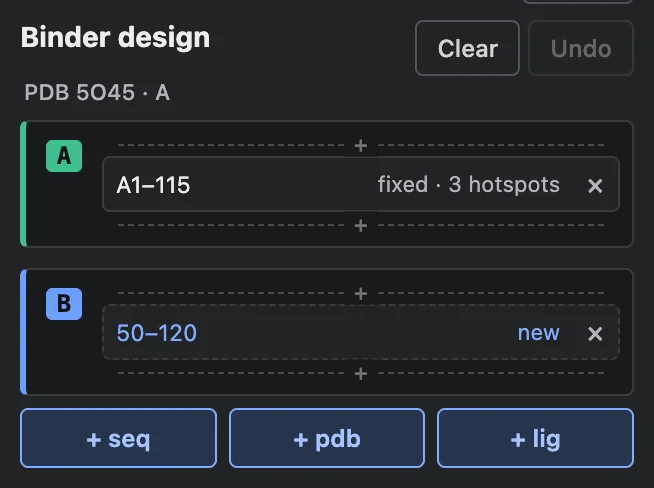
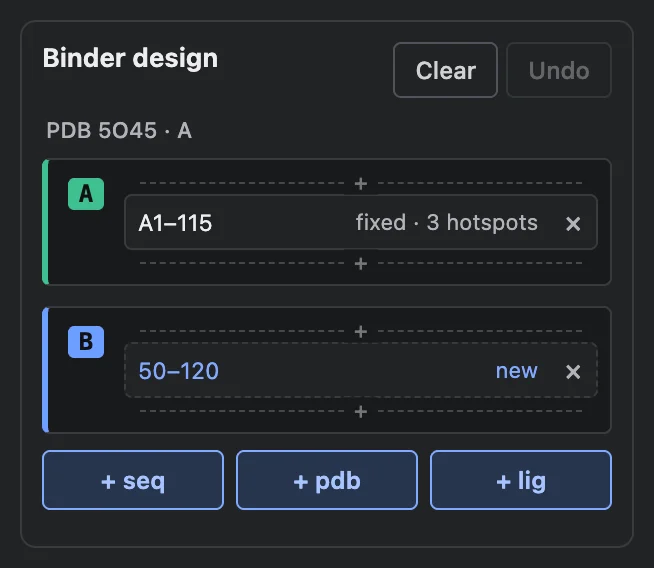
Card in three sections (design, Run, Designs); one list of designs: same input appends, an edited input starts over

diff --git a/web/app.js b/web/app.js
@@ -1054,7 +1054,7 @@ class Rfd4pStudioApp {
     const views = [...this.generatedViews.entries()];
     const input = views.find(([, v]) => v.isInput)?.[1];
     const store = getSharedStudioStore();
-    const designs = views.filter(([, v]) => !v.isInput && !v.isRefold && !v.isSnapshot && v.cif)
+    const designs = views.filter(([, v]) => !v.isInput && !v.isRefold && v.cif)
       .map(([sid, v]) => ({
         index: v.designIndex ?? 1, label: v.label, seed: v.seed, stepsRun: v.stepsRun, nsteps: v.nsteps,
         cif: v.cif, pdb: v.pdb, trajectoryCif: store.getSession(sid)?.trajectoryCif ?? null,
@@ -1139,7 +1139,7 @@ class Rfd4pStudioApp {
       }))),
       h('th', { class: 'rfd4p-dt-act' })));
     const row = (sid, v, inputTitle = null) => {
-      const isInputRow = v.isInput || v.isSnapshot;
+      const isInputRow = v.isInput;
       const cls = [isInputRow ? 'rfd4p-design-input' : '', v.pass === true ? 'rfd4p-design-pass' : '',
         v.pass === false ? 'rfd4p-design-fail' : ''].filter(Boolean).join(' ');
       const tr = h('tr', { class: cls || null, title: isInputRow ? inputTitle : `seed ${v.seed}` });
@@ -1168,30 +1168,12 @@ class Rfd4pStudioApp {
       tr.addEventListener('click', (ev) => { if (!ev.target.closest('button, label, input')) radio.click(); });
       return tr;
     };
-    const table = (rows, withHead = true) => h('table', { class: 'rfd4p-dtable' }, withHead ? thead() : null, h('tbody', {}, ...rows));
-    // Each run's own input first in its table: the input itself while it is unchanged since the newest run, else the
-    // run's read-only copy. The input as it is now heads the list only once it has changed since that run.
+    const table = (rows) => h('table', { class: 'rfd4p-dtable' }, thead(), h('tbody', {}, ...rows));
+    // One table: the input, then the designs.
     const input = views.get(this.inputSessionId);
-    const revisionNow = getSharedStudioStore().getSession(this.inputSessionId)?.revision ?? null;
-    const parts = [];
-    const newest = runs.at(-1);
-    const unchanged = (r) => r === newest && r.inputRevision === revisionNow;
-    if (input?.isInput && (!newest || !unchanged(newest))) parts.push(table([row(this.inputSessionId, input, 'The input as it is now (editable)')], false));
-    for (const [k, r] of runs.entries()) {
-      const own = unchanged(r) && input?.isInput ? [this.inputSessionId, input, 'The input these designs were made from (editable)']
-        : r.inputSnapshot && views.get(r.inputSnapshot) ? [r.inputSnapshot, views.get(r.inputSnapshot), `The input run ${r.index} was made from (read-only)`] : null;
-      const rows = [own ? row(...own) : null, ...order(r.designs).map(([sid, v]) => row(sid, v))].filter(Boolean);
-      if (runs.length === 1) { parts.push(table(rows)); continue; }
-      const group = h('details', { class: 'rfd4p-run' },
-        h('summary', { text: `Run ${r.index} · ${r.designs.length} design${r.designs.length === 1 ? '' : 's'}` }), table(rows));
-      // Open or closed as the reader left it, across redraws (a refold redraws the table); until then, the newest run
-      // and the one holding what is shown are open.
-      this.runOpen ??= new Map();
-      group.open = this.runOpen.has(r.index) ? this.runOpen.get(r.index)
-        : k === runs.length - 1 || r.designs.includes(this.studioSessionId) || r.inputSnapshot === this.studioSessionId;
-      group.addEventListener('toggle', () => this.runOpen.set(r.index, group.open));
-      parts.push(group);
-    }
+    const rows = [input?.isInput ? row(this.inputSessionId, input, 'The input the designs were made from') : null,
+      ...order(runs[0]?.designs ?? []).map(([sid, v]) => row(sid, v))].filter(Boolean);
+    const parts = [table(rows)];
     box.replaceChildren(...(designs.length ? parts : []));
     box.classList.toggle('rfd4p-designs-busy', Boolean(this.activeAbortController));
     if (this.els.downloadsBox) this.els.downloadsBox.hidden = designs.length < 1;
@@ -1516,28 +1498,17 @@ class Rfd4pStudioApp {
           revision: inputRevision,
         });
       }
-      // Earlier runs on the same input stay, folded away under the new one; a different input starts over.
-      if (this.runsInput !== this.inputSessionId || !this.runs) {
+      // One list of designs: generated again from the input unchanged, the new designs join it, numbered on; from an
+      // edited or another input, it starts over.
+      const last = this.runs?.[0];
+      if (this.runsInput !== this.inputSessionId || !last || last.inputRevision !== inputRevision) {
         for (const sid of this.generatedViews.keys()) if (sid !== this.inputSessionId) this.generatedViews.delete(sid);
-        this.runs = [];
+        this.runs = [{ designs: [], inputRevision }];
         this.designCounter = 0;
         this.designSort = null;
-        this.runOpen = new Map();
         this.runsInput = this.inputSessionId;
       }
-      const run = { index: (this.runs.at(-1)?.index ?? 0) + 1, seeds: [baseSeed, baseSeed + numSamples - 1], designs: [], inputRevision };
-      // The input as this run had it, kept read-only beside its designs: edits after it do not change what it was.
-      const inputNow = store.getSession(this.inputSessionId);
-      if (inputNow) {
-        const cif = inputNow.toCif();
-        const { sessionId: snapshotSid } = store.createSession(cif, `input-run-${run.index}.cif`);
-        this.generatedViews.set(snapshotSid, {
-          label: 'Input', cif, pdb: null, isInput: false, isSnapshot: true, hasTrajectory: false,
-          filenameStem: `input-run-${run.index}`, runIndex: run.index,
-        });
-        run.inputSnapshot = snapshotSid;
-      }
-      this.runs.push(run);
+      const run = this.runs[0];
       this._renderDesigns();
 
       const t0 = performance.now();
@@ -1724,7 +1695,6 @@ class Rfd4pStudioApp {
           refoldText: null,
           // For "Save results": which design, how it ran, and every refold made of it.
           designIndex,
-          runIndex: run.index,
           // Which of upstream's pass criteria apply: the task, and whether everything the refold folds was designed.
           kind: criteriaKind(taskKey, {
             designedAll: polymerChains(result.pdb ?? '').every((c) => designed.includes(c.letter)),

diff --git a/index.html b/index.html
@@ -10,7 +10,7 @@
     <!-- This site serves the Studio bundle itself; its offline cache would pin stale assets on Pages. -->
     <meta name="atomworks-studio-service-worker" content="off" />
     <script src="https://cdnjs.cloudflare.com/ajax/libs/jszip/3.10.1/jszip.min.js"></script>
-    <link rel="stylesheet" href="./web/styles.css?v=ca3a25ec3c" />
+    <link rel="stylesheet" href="./web/styles.css?v=e1e6c294ac" />
     <!-- app.js first: its import of studio-api.js installs the /api/* fetch interceptor the Studio bundle boots against. -->
     <!-- module-versions:start (tools/stamp-modules.mjs) -->
     <script type="importmap">
@@ -38,8 +38,8 @@
           "./shared/rfd4p/presets.js": "./shared/rfd4p/presets.js?v=8db26644f7",
           "./shared/rfd4p/safetensors.js": "./shared/rfd4p/safetensors.js?v=816ee6d627",
           "./shared/rfd4p/vendor/fzstd.js": "./shared/rfd4p/vendor/fzstd.js?v=e6cdba40d4",
-          "./web/app.js": "./web/app.js?v=ce6cdfa09d",
-          "./web/design-panel.js": "./web/design-panel.js?v=7ddf61c957",
+          "./web/app.js": "./web/app.js?v=5ce7a21845",
+          "./web/design-panel.js": "./web/design-panel.js?v=fc42f3e448",
           "./web/design-spec.js": "./web/design-spec.js?v=5b8999f1bb",
           "./web/guide-dialog.js": "./web/guide-dialog.js?v=df4c3ca412",
           "./web/ligand-ccd.js": "./web/ligand-ccd.js?v=b937ddbebf",
@@ -59,7 +59,7 @@
       }
     </script>
     <!-- module-versions:end -->
-    <script type="module" src="./web/app.js?v=ce6cdfa09d"></script>
+    <script type="module" src="./web/app.js?v=5ce7a21845"></script>
     <script type="module" crossorigin src="./assets/index-H6K66f49.js"></script>
     <link rel="stylesheet" crossorigin href="./assets/index-CTn3vkIg.css">
   </head>
@@ -98,7 +98,7 @@
             </div>
 
             <!-- Design: what will be generated, read from the open document. -->
-            <div id="rfd4p-design" class="rfd4p-design" hidden>
+            <div id="rfd4p-design" class="rfd4p-design rfd4p-section" hidden>
                 <div class="rfd4p-task-head">
                     <strong id="rfd4p-task-label"></strong>
                     <span class="rfd4p-task-buttons">
@@ -116,7 +116,8 @@
                 <div id="rfd4p-warnings" class="rfd4p-warnings"></div>
             </div>
 
-            <div id="rfd4p-run-settings" class="rfd4p-run-settings" hidden>
+            <div id="rfd4p-run-settings" class="rfd4p-run-settings rfd4p-section" hidden>
+            <strong class="rfd4p-section-title">Run</strong>
             <div class="rfd4p-settings-row">
                 <label for="samples-input" class="rfd4p-designs-field">Designs
                     <input type="number" id="samples-input" value="1" min="1" max="8" step="1" />
@@ -168,8 +169,6 @@
             <button id="predict" class="primary rfd4p-generate-btn" type="button" disabled>
                 Generate design
             </button>
-            </div>
-
             <div id="generation-status" class="rfd4p-status-box" hidden>
                 <p id="rfd4p-status-message" class="inline-feedback muted" aria-live="polite"></p>
                 <div id="rfd4p-model-load" class="rfd4p-model-load" hidden>
@@ -177,10 +176,12 @@
                 </div>
                 <progress id="rfd4p-progress" class="rfd4p-progress" max="1" value="0" data-state="idle" hidden></progress>
             </div>
+            </div>
+
 
             <!-- Every design of the runs on this input, one row each with its refold's numbers (web/app.js _renderDesigns). -->
-            <div id="design-results" class="rfd4p-results-box" hidden>
-                <strong class="rfd4p-results-title">Designs</strong>
+            <div id="design-results" class="rfd4p-results-box rfd4p-section" hidden>
+                <strong class="rfd4p-section-title">Designs</strong>
                 <div id="design-view-radios" class="rfd4p-designs" role="radiogroup" aria-label="Designs"></div>
                 <!-- Refold: fold each design's sequence again and score how it comes back (web/app.js _refoldDesigns). -->
                 <div id="rfd4p-refold" class="rfd4p-refold-box" hidden>

diff --git a/web/styles.css b/web/styles.css
@@ -164,13 +164,7 @@ body.studio-fullscreen-body {
   font-weight: 600;
 }
 
-.rfd4p-results-box {
-  margin-top: 8px;
-  padding-top: 8px;
-  border-top: 1px solid var(--border, #383a3f);
-  display: grid;
-  gap: 6px;
-}
+.rfd4p-results-box { display: grid; gap: 8px; }
 
 .rfd4p-view-group {
   margin: 0;
@@ -498,9 +492,7 @@ body:not(.rfd4p-advanced) #atomworks-studio-popover > :not(#rfd4p-studio-card) {
 }
 
 /* Design panel */
-.rfd4p-design {
-  margin-bottom: 10px;
-}
+.rfd4p-design { margin-bottom: 0; }
 
 .rfd4p-design.rfd4p-busy {
   opacity: 0.6;
@@ -562,12 +554,18 @@ body:not(.rfd4p-advanced) #atomworks-studio-popover > :not(#rfd4p-studio-card) {
 }
 
 /* Run settings: designs, seed and its dice on one line */
-/* The run (designs, seed, partial diffusion, Generate) set apart from what is being designed. */
-.rfd4p-run-settings {
-  margin-top: 18px;
-  padding-top: 14px;
-  border-top: 2px solid var(--border, #383a3f);
+/* The card in three sections, each a bordered box under its heading: the design (headed by its task), Run
+   (designs, seed, settings, Generate and what it says), and Designs (the results, their refold, Save all). */
+#rfd4p-studio-card .rfd4p-section {
+  display: grid; gap: 8px; margin: 10px 0 0; padding: 10px;
+  border: 1px solid var(--border, #383a3f); border-radius: 8px;
 }
+#rfd4p-studio-card .rfd4p-section[hidden] { display: none; }
+.rfd4p-section-title, .rfd4p-task-head strong { font-size: 13px; font-weight: 650; }
+.rfd4p-section > .rfd4p-settings-row,
+.rfd4p-section > .rfd4p-sampling-details,
+.rfd4p-section > .rfd4p-chain-actions,
+.rfd4p-section > .rfd4p-status-box { margin: 0; }
 
 .rfd4p-settings-row {
   display: flex;
@@ -1019,8 +1017,8 @@ body.rfd4p-building .rfd4p-piece-pop { visibility: hidden; }
 
 /* The Designs table (web/app.js _renderDesigns): one row a design, its refold's numbers, sortable by column. */
 /* "Designs", its tables, then the Refold box: everything refolding takes, in one bordered square. */
-.rfd4p-results-title { font-size: 12.5px; }
-.rfd4p-refold-box { display: grid; gap: 6px; padding: 8px; border: 1px solid var(--border, #383a3f); border-radius: 6px; }
+/* Inside Designs, the Refold box is tinted rather than bordered: part of that section, not a section of its own. */
+.rfd4p-refold-box { display: grid; gap: 6px; padding: 8px; border-radius: 6px; background: var(--surface-recessed, #191a1c); }
 .rfd4p-refold-box > strong { font-size: 12px; }
 .rfd4p-refold-grid { display: grid; grid-template-columns: minmax(0, 2fr) repeat(3, minmax(0, 1fr)); gap: 6px; }
 .rfd4p-refold-grid label { display: grid; gap: 2px; margin: 0; font-size: 10.5px; color: var(--text-muted, #b1b3b9); }

diff --git a/web/page/card.html b/web/page/card.html
@@ -32,7 +32,7 @@
             </div>
 
             <!-- Design: what will be generated, read from the open document. -->
-            <div id="rfd4p-design" class="rfd4p-design" hidden>
+            <div id="rfd4p-design" class="rfd4p-design rfd4p-section" hidden>
                 <div class="rfd4p-task-head">
                     <strong id="rfd4p-task-label"></strong>
                     <span class="rfd4p-task-buttons">
@@ -50,7 +50,8 @@
                 <div id="rfd4p-warnings" class="rfd4p-warnings"></div>
             </div>
 
-            <div id="rfd4p-run-settings" class="rfd4p-run-settings" hidden>
+            <div id="rfd4p-run-settings" class="rfd4p-run-settings rfd4p-section" hidden>
+            <strong class="rfd4p-section-title">Run</strong>
             <div class="rfd4p-settings-row">
                 <label for="samples-input" class="rfd4p-designs-field">Designs
                     <input type="number" id="samples-input" value="1" min="1" max="8" step="1" />
@@ -102,8 +103,6 @@
             <button id="predict" class="primary rfd4p-generate-btn" type="button" disabled>
                 Generate design
             </button>
-            </div>
-
             <div id="generation-status" class="rfd4p-status-box" hidden>
                 <p id="rfd4p-status-message" class="inline-feedback muted" aria-live="polite"></p>
                 <div id="rfd4p-model-load" class="rfd4p-model-load" hidden>
@@ -111,10 +110,12 @@
                 </div>
                 <progress id="rfd4p-progress" class="rfd4p-progress" max="1" value="0" data-state="idle" hidden></progress>
             </div>
+            </div>
+
 
             <!-- Every design of the runs on this input, one row each with its refold's numbers (web/app.js _renderDesigns). -->
-            <div id="design-results" class="rfd4p-results-box" hidden>
-                <strong class="rfd4p-results-title">Designs</strong>
+            <div id="design-results" class="rfd4p-results-box rfd4p-section" hidden>
+                <strong class="rfd4p-section-title">Designs</strong>
                 <div id="design-view-radios" class="rfd4p-designs" role="radiogroup" aria-label="Designs"></div>
                 <!-- Refold: fold each design's sequence again and score how it comes back (web/app.js _refoldDesigns). -->
                 <div id="rfd4p-refold" class="rfd4p-refold-box" hidden>

diff --git a/web/design-panel.js b/web/design-panel.js
@@ -649,10 +649,7 @@ export class DesignPanel {
     const viewingDesign = this._viewingDesign();
     els.design.classList.toggle('rfd4p-readonly', viewingDesign);
     els.taskLabel.textContent = spec.task.label;
-    const snapshot = viewingDesign && this.app.generatedViews?.get(this.app.studioSessionId)?.isSnapshot;
-    els.taskDetail.textContent = !viewingDesign ? '' : snapshot
-      ? 'The input of an earlier run (read-only). Select the editable Input under Designs to edit.'
-      : 'A generated design (read-only). Select Input under Designs to edit.';
+    els.taskDetail.textContent = viewingDesign ? 'A generated design (read-only). Select Input under Designs to edit.' : '';
     els.taskDetail.hidden = !viewingDesign;
     if (els.newDoc) els.newDoc.hidden = viewingDesign;
     const actions = els.addSeq?.parentElement;

diff --git a/help/index.html b/help/index.html
@@ -169,8 +169,9 @@
     back exactly as given.</p>
 
   <h2 id="designs">Designs</h2>
-  <p>Every design of every run on this input is a row. Click a row to see it. Earlier runs fold away under
-    <code>Run 1 · seeds …</code>; a different input starts the list over.</p>
+  <p>Every design is a row; click one to see it, or Input to go back to editing. Generate again with the input unchanged
+    and the new designs join the list; change the input and the next Generate starts a new list (save what you want to
+    keep first).</p>
   <ul>
     <li><span class="ui">Refold all</span> folds each design's sequence again with AlphaFold 3 or OpenBind-0 and scores how well it comes
       back. <span class="ui">↻</span> refolds one design; <span class="ui">⤓</span> downloads it. The

diff --git a/AGENTS.md b/AGENTS.md
@@ -24,7 +24,7 @@ Operational guide for coding agents working in `rfd4p` (WebGPU implementation of
    - `web/design-spec.js` (pure: task, chain roles, lengths and contig read from a document's conditions; tested in `test/design-spec.test.js`) and `web/design-panel.js` (start screen, Design panel, guided set-ups, simple/advanced switch). The panel lists each chain piece by piece in contig order (`designSpec(...).chains[].pieces`): `kept` (with a keep mode from `KEEP_MODES`: all, sequence, backbone, side chains, shape only; `anywhere` when unindexed; `source` when a set-up renumbered it), `designed` (in place) and `new` (a length range). Chains are grouped by where their coordinates come from (`_sourceGroups`: "PDB 1QJG", "PDB 5O45 chain A", "Nanobody (VHH) example"), one muted caption per source; clicking a caption opens the + pdb form to replace that source's chains; chains are listed in the job's order (the sequence bar's, which is the order they were added), chains made here (+ seq, + lig) uncaptioned in place. Each piece is a sub-card in its chain (chain letter on the left; the chain's × there once it has more than one item), residues (or a new piece's length) on the left and its state on the right ("A17–131 · fixed · 3 hotspots", "H99–109 · designed", "50–120 · new"), its own × to remove it; a "+" between sub-cards (not next to new residues) inserts 5–10 new residues there. Every option in the popups is fixed or free (free: the model decides; the internal values stay 'designed' and 'anywhere'), and every list ends with "free", Shape, Exposure, Interaction and Fold included; a ligand's pose is its Structure too. A residue popup (a sub-card's, or residues picked in the viewer or the sequence bar) shows, in front, its residue range (a sub-card's), Structure (fixed, rigid, free) with the Atoms it holds (all, backbone, side chains, or named: "CG, OD1"), Sequence (fixed, free) and Position in chain (fixed, free: an unindexed residue), with Structure and Sequence both free Length in Position's place, and a sub-card's Hotspots, the rest under More (`_moreFold`: Shape, Exposure, Interaction, and a sub-card's Keep only); there are no one-click buttons (they set four things at once and could not say "structure fixed, sequence free"). A sub-card's click also selects its residues in Studio while its popup is open (`_selectFromCard`, not the viewer's popup). A sub-card's Residues take one range or several ("1–40, 60–115"); once narrowed, Rest says what happens to the piece's residues outside them (removed, the default; free; unchanged, for changing part of a piece), the gaps between ranges are free, and Between gives them a length range, turning each into new residues (so a fetched chain is cut to a domain, or to two regions with a variable linker, in one popup); a Length other than the residue count turns them into new residues (`/segments/replace`), and the document remembers the residues they replaced (`segmentOrigins`, this page only; `segmentOrigin`, `restoreSegment`, `/segments/restore`; `test/segment-restore.test.js`): the new-residues popup then shows "was 7" beside Length and a Structure and Sequence, and the old count, or a fixed or rigid Structure or a fixed Sequence, brings them back in place with their coordinates and conditions, in one Undo; with partial diffusion ticked, its warning about new residues offers the same for all of them ("Back to the residues they replaced"), since partial diffusion starts from coordinates. A piece of a loaded chain has a crop bar under its Residues (`_cropBar`): the chain as it was loaded (`chainSources`, kept by a plain structure's `StudioDoc` and carried by `combine` and a chain rename; `sourceResidues`), the piece's ranges on it, the chain's other residues muted, a handle at each end; dragging in crops (Rest), dragging out brings residues back, up to the neighbouring piece and never past new residues (`restoreFromSource`, `/residues/restore`: as loaded, then given the popup's settings, those in gaps free). It only edits the Residues field, so typing a range past the piece does the same. As the ranges change (dragged or typed), the structure previews them (`_previewCut`): residues to be cut nearly vanish (`setHighlight('cut', …)`), those to be freed fade as free ones do, and only the residues kept stay selected; closing the popup clears it. Opening a sub-card's popup also brings its residues to the middle of the view, the zoom kept (`centerOn`, fork 12c2b78). During a run and on a finished design, the held coordinates of a motif are drawn as a grey reference (`buildMotifOverlayAtoms`, `motifSideChainAtoms`): residues placed anywhere always, residues held in place only when they are a quarter of their chain or less (`isSmallMotif`: 1QJG's three, not a kept domain extended by new residues, which would only be drawn twice). Residues the model rebuilds (no atom held, not rigid) are faded in the input structure (`setHighlight('free', …, { transparency })`, fork f7a02ee), except with partial diffusion ticked, where they are its starting point. Hotspots (the chain's, from any of its pieces; a residue may name its atoms, "A56(CG,OH)", `parseResidueList`) and, under More, Keep only (the motif set-up, `/segments/scaffold`; the residues are kept in the order typed, "A38, A14, A99" reorders the motif and renumbers the chain as AtomWorks does, `_orderMotif`, each kept residue keeping its source ("A38", `annotation_src-component_1_atom`, display only: the pipeline rewrites it) so the card still names it by the entry; the kept residues take the popup's properties, so trimming an antibody chain and making it "rigid" is one popup). "Rigid" is one rigid group per source structure (`/internal-coords` `group_id`, `_rigidGroup(chain)`: chains from the same entry share a body), so an antibody's heavy and light frameworks keep their pairing and move as one, as upstream's current antibody example (Studio 0.0.6, MZB1/adalimumab Fv) and the model repo's VHH inputs are set (the Oct 19 example the demo Space ships had them as two bodies, since replaced), a framework split by CDRs moves as one, and chains from different entries move apart, and its saved targets are cleared (`/internal-coords/clear-targets`): the pipeline centres the body and turns it at random when the job is built (`materializeInternalCoords`), as AtomWorks does and the bundled examples are saved. A residue fixed "anywhere" with only some atoms held keeps only those atoms' coordinates, held atoms first in the residue (`/coordinates/clear`; a token is read from its first atom), as an enzyme benchmark's catalytic tips are given. Residues can be brought back from their source entry next to their neighbours (`/residues/insert`, `insertResiduesFrom`: one Undo, peptide and new-residue bonds rebuilt, an ordered motif's chain renumbered; `test/residue-insert.test.js`); nothing in the card uses it yet (a residue strip did, and was taken out for now). The chain letter opens the chain's popup: its name (`/chains`), its place in the job (`/chains/order`), which the model reads (chain and molecule ids, noise draws), and a fold for it (CATH, `cath_label`, `_foldField`: the chain popup's labels the whole chain, the new-residues popup's only those new residues, so one chain can hold domains of different folds, 6MRR kept and a β-barrel built onto it; a new block shows its fold, "β-barrel · new"; named folds such as ferredoxin-like 3.30.70, Rossmann-like 3.40.50, helix bundle 1.10, or any code; a new chain's is set on its new residues, which each take it; also in the new-residues popup, where a new chain is laid out). Superposition (`superimposeCoords3D`) is a rotation, never a reflection (`test/handedness.test.js`): it used to mirror whenever its eigenvectors came out left-handed, and a design with nothing held in place, aligned onto its first (noise) frame, was then shown as its mirror image, every helix left-handed, about half the time; the model's own estimate was right-handed throughout. A residue placed anywhere is read against all its atoms (`heldAtomsOf`, `allHeavyNames`), since only its held atoms keep coordinates, so its row names them ("A250 CG, OD1 fixed · position free"); a glycine joins a named-atoms or side-chain run it sits in, and an interaction is asked of each residue's side chain, or its CA when it has none. Under More, residues can also be asked a Shape (secondary structure: helix, strand, loop), an Exposure (RASA: buried, intermediate, exposed) and an Interaction their side chains (or the atoms named) should make (H-bond donor/acceptor, salt bridge, π-stacking, π-cation, hydrophobic, metal-coordinating) (`_extraFields`); new residues take Shape and Exposure. These were Advanced-editor only; pieces split where they differ and rows name them ("A20–30 designed · helix"). Residues selected in the viewer or the sequence bar open a shorter popup for the selection (`_renderPop`): Structure and Sequence ("mixed" where the selected pieces differ, left as each piece has it), Length for one free stretch, Hotspot and Include checkboxes (unticked, the selection is taken out of the job on Apply) and a ligand's Structure, with Atoms, Position, Shape, Exposure and Interaction under More (a pick shows little at first), so fixed regions are grown, shrunk, freed or cut from the structure itself (a motif by hand: pick the residues around it, Structure and Sequence free, a Length); several pieces change in one edit (`_applyPieces`), one Undo. Ligands: Structure fixed or free, swap. New residues: Length, Shape, Exposure and the chain's Fold. More folds only four rows or more; fewer are shown as they are (`_moreFold`). Popups close with the × in their title (top right; a viewer pick's also lets go of the selection), Escape or a click outside, and move by their title bar (`_movable`): once moved, every popup opens where the last was left, kept on screen, until a reload (`popSpot`); Apply sits at the bottom, always in sight. A "+" sits between any two pieces and at both ends, new residues included, so a free chain is built as blocks of different lengths and shapes (20 helix · 6 loop · 20 strand). New residues inserted inside a chain do not renumber it: with no numbering gap the placeholder takes the residue before's number plus an insertion code (`insertSegment`, "40A"), and `realizeExpandableSegments` numbers past it, so the batch and the design are numbered exactly as the old renumber-the-rest rule made them (`test/insert-numbering.test.js`). A design therefore numbers residues after an insertion further along than the input; hotspots on designs are matched through each sample's batch atoms for that reason. A binder's target stays as loaded, fixed, as the original demo example has it (turning it into upstream's documented binder set-up, backbone rigid with sequence fixed, on + seq or + pdb was tried and taken back at the owner's call; the popup's rigid + backbone does it by hand). A rigid residue counts as held when roles are read, so a rigid target still reads "Binder design". Thinking sits above Generate and defaults to none, for speed (upstream's default is medium, `inference.yaml`; about 3x the passes). A plain structure (PDB ID, optionally with the chains to keep, "1J79 A C E"; a file; "+ pdb") opens with everything fixed, without buffer ions (NA, CL, on top of AtomWorks' additive list) and with its ligands' formal charges from the CCD (RCSB entries list their components' atoms without charges, `componentsNeedingCcd`); a prepared document drops the file's text (`rawCif`), so its CIF, for the viewer and for a run, is the prepared one from the first frame (`StudioDoc`, rcsb preset; `test/fetch-defaults.test.js`), so a set-up starts from what was loaded and marks what to design; Keep only takes the popup's Structure, Atoms and Position (CG, OD1 + anywhere is an enzyme site), and ticking partial diffusion with nothing designed frees every chain. "Blueprint" draws a ferredoxin-like fold as blocks (β 6 · loop 3 · α 14 · loop 3 · β 6 · loop 3 · β 6 · loop 3 · α 14 · loop 3 · β 6) from the bundled empty chain (`start`, `blocks` steps; no download); a design follows it (helix blocks Cα i→i+3 5.1 Å and right-handed, strands 10 Å). The start screen starts a job from its parts with the design view's own row, + seq (a free chain of 60–100, from the bundled empty chain), + pdb (the PDB ID / file form) and + lig (a ligand by its code), each opening a new document (`_startNew`), and under it the Examples (a heading, not a question: nothing there has to be picked). Start-screen examples are recipes (`TASKS[].recipe`): each fetches its PDB entry (5O45, 1XVA, 1QJG, 1J79, 1N8Z, 4Z18 + 3EAK, 2KL8, in label numbering; an entry's chains come from its first biological assembly that has them, `_openEntry`) and reproduces the bundled Studio example of the same name in everything the model reads (batch features compared tensor by tensor; the motif is identical, the antibody too but for two deliberate changes, its heavy and light chains one rigid body and their fold Ig-like (CATH 2.60.40, recipe `{ chain, fold }`), as upstream's examples now are; both 2KL8 examples keep residues 1–79 (all of it but the His tag), where the bundled file drops 8–27, a bug in it; the rest differ only where the bundled file's coordinates did not come from the deposited entry: the binder's rebuilt side chains, the SAM conformer, the nanobody framework's saved orientation, and 0.001 Å rounding in the enzyme) and builds the set-up with the card's own controls in a session Studio does not show (`_buildRecipe`: `buildSession`, whose edits go straight to `handleStudioApiRequest`, so the viewer is not redrawn per step; popups hidden by `body.rfd4p-building`), then opens it once, finished, with no Undo history; offline, the bundled Studio example opens instead ("Protein from scratch" always does). Source captions read "PDB 5O45 · A" (entry and its chains in the job; the entry's `_struct.title` when pointed at). Designs and live frames are put back in the input's frame (the pipeline centres the conditioned coordinates for the model and records `center_shift`; `processSampleToAtoms` adds it back after aligning), so a fetched target does not jump when a run starts. During a run the hotspot highlight follows the job's numbering (`app.liveHotspotKeys`, res_id past any new residues), since live frames are numbered that way, and the viewer repaints it on every live frame (fork: Mol* keeps paint as atom positions, and a frame's designed residues change atom count from step to step, so paint carried over slid onto other residues; the viewer's `data-highlight-residues` says what is painted). Otherwise hotspots are highlighted in the viewer by `auth_seq_id`, which is how the document's CIF numbers residues for Mol* (a fetched entry keeps its authors' numbering there; `res_id` is the label numbering). There are no separate guided set-ups; partial diffusion is a line under the run settings' More settings, which open whenever it is turned on, so it is never on out of sight (one control: the checkbox and its noise %, 40% by default, `partial_trajectory_fraction_steps` 0.4 as upstream's Space runs its partial-diffusion example). A job whose every chain keeps its backbone with its sequence free (the card's "Redesign sequence", `task.key === 'inverse'`) runs the inverse-folding sampler (`resampled_forward_marginal`), as the Space does for that task (`generation=inverse_folding`): the backbone comes back as given (Cα within 0.02 Å), only sequence and side chains sampled. The encoder treats an atom without coordinates (a side chain an entry did not resolve) as absent (`encoderSeqFeatures`), or its NaN reached every latent and partial diffusion of such an entry (6MRR) gave a design with no atoms. Hotspots are a chip on a kept piece (`parseResidueList` / `formatResidueList`). Ligands are added ("+ lig") or swapped (a ligand's Edit menu) by their CCD code: `web/ligand-ccd.js` turns the dictionary entry's ideal coordinates into a one-residue mmCIF, merged in with its pose free. "+ seq", "+ pdb" and "+ lig" add a designed chain, chains from a PDB entry or file, or a ligand; merged in as kept chains through `/combine` (a source caption replaces that source instead), so an example is edited the same way a set-up is built from scratch. The panel edits documents only through `window.__rfd4pMutate`, so Undo and Studio refreshes work as for Studio's own edits.
    - AtomWorks Studio is **not vendored**. `studio.json` pins the release; `npm run build:studio` downloads that bundle, verifies its sha256, copies it into `assets/` and composes `index.html` from Studio's own page plus the two fragments this repo owns (`web/page/head.html`, `web/page/card.html`). Never hand-edit `assets/` or `index.html` — both are build output. Live frames, overlays, sessions, edits, the selection, chain colours and live mode go through Studio's documented embedding API, `window.atomworksStudio`. To try an unreleased Studio: `npm run build:studio -- --from <path-to-bundle>`. **Right now the site runs an unreleased Studio**: `studio.json` `override` names the commit (sokrypton/atomworks-studio `live-frame-cartoon`: cartoon overlays, RosettaCommons/atomworks-studio#29, live frames drawn as cartoon plus ligands, `setHighlight`, which the panel uses to colour hotspots in the target's own cartoon, Show/Hide sequence in the viewer toolbar with no sequence-dock heading, `setSelection`, and residue picking by default with a clicked residue shown on its own: Mol*'s focus without its 5 Å surroundings, interactions or camera jump, and following the selection, so deselecting leaves no sticks behind (whole residues selected are only outlined on the cartoon; atoms picked show their residues in sticks, c17a919), and `closeDocument`, which Clear uses to empty the viewer and the sequence without a reload or a confirmation, keeping the session for Back, and `setHighlight` with a `transparency`, which fades residues instead of colouring them, and `centerOn`, which pans the view to atoms), and `build:studio` refuses a plain release rebuild until `override` is removed after a release contains it.
    - Guide: `help/index.html` is this site's guide (start, the card, pieces, picking, chains, colours, running, Designs, examples, words), a page of its own and, through `web/guide-dialog.js`, a popup over the designer (the card's Guide button and the footer's Guide link); Studio's own guide stays at `guide/`, linked from it. Its screenshots (`help/img/*.webp`) come from `node tools/guide-shots.mjs [scene]` (headless Chrome over its DevTools protocol, each scene set up through the page; `designs` runs the model and an OpenBind-0 refold). Change the guide, and retake the shots, when the interface changes.
-   - Designs (`web/app.js` `_renderDesigns`): every design of the runs on the current input is a row of one table (each run's group starts with the input it was made from: the input itself while unchanged since the newest run, else a read-only copy taken when the run started; the editable input heads the table once it has changed since; each new run's designs numbered on from the last, earlier runs kept and folded away under "Run n · seeds"; another input opened shows none of them), each with ⟳ (refold it) and ⤓ (its CIF); clicking a row shows it. While a run goes, the Generate button is its progress (Stop · design k of n · step s/60, filling up) and the status line under it is for what is not progress. The Refold box (below the tables) holds model, seed, recycles (3, LocalFold's own default; before LocalFold e002fec4 refoldDesign passed none, so refolds ran with 0) and diffusion steps (25). Refold all (or Stop) refolds every design not yet refolded with exactly those settings (the refold's own seed, 0 by default; another seed samples the fold again, each refold keeping its seed for the zip), one after another, rows saying queued / refolding… and filling in: RMSD, pLDDT, and for an interface ipTM and min iPAE (`refoldMetrics`: the min iPAE from the refold's PAE, polymer tokens first in file order as LocalFold reads them, `polymerChains`; the RMSD of a binder or antibody is upstream's target-aligned one, from the refold's per-residue `deviations`, which LocalFold measures after fitting on every other chain). A ✓ marks designs that meet the model's own pass criteria (`PASS_CRITERIA`, from RFD4-Proteina `configs/metrics/pass_criteria`: monomer, binder, antibody; motif, enzyme and small-molecule jobs get numbers but no verdict, as they also need motif and ligand RMSDs not computed here), failing rows are greyed, and rows rank passing first by the job's first criterion (`rankKey`) until a column head is clicked. Save all (.zip) carries every run, with the same numbers in summary.csv (`web/results-zip.js`).
+   - Designs (`web/app.js` `_renderDesigns`): every design of the runs on the current input is a row of one table (one list: Input, then the designs; Generate again with the input unchanged (same session, same revision) and the new designs join it, numbered on; after an edit, or from another input, the next Generate starts it over; the card is in three bordered sections, the design, Run and Designs, the Refold box tinted inside Designs), each with ⟳ (refold it) and ⤓ (its CIF); clicking a row shows it. While a run goes, the Generate button is its progress (Stop · design k of n · step s/60, filling up) and the status line under it is for what is not progress. The Refold box (below the tables) holds model, seed, recycles (3, LocalFold's own default; before LocalFold e002fec4 refoldDesign passed none, so refolds ran with 0) and diffusion steps (25). Refold all (or Stop) refolds every design not yet refolded with exactly those settings (the refold's own seed, 0 by default; another seed samples the fold again, each refold keeping its seed for the zip), one after another, rows saying queued / refolding… and filling in: RMSD, pLDDT, and for an interface ipTM and min iPAE (`refoldMetrics`: the min iPAE from the refold's PAE, polymer tokens first in file order as LocalFold reads them, `polymerChains`; the RMSD of a binder or antibody is upstream's target-aligned one, from the refold's per-residue `deviations`, which LocalFold measures after fitting on every other chain). A ✓ marks designs that meet the model's own pass criteria (`PASS_CRITERIA`, from RFD4-Proteina `configs/metrics/pass_criteria`: monomer, binder, antibody; motif, enzyme and small-molecule jobs get numbers but no verdict, as they also need motif and ligand RMSDs not computed here), failing rows are greyed, and rows rank passing first by the job's first criterion (`rankKey`) until a column head is clicked. Save all (.zip) carries every run, with the same numbers in summary.csv (`web/results-zip.js`).
    - Refold (`web/refold-view.js`): LocalFold's `refoldDesign` refolds the design's sequence with AlphaFold 3 (the default) or OpenBind-0 (kept chains as templates), and the refold's designed chains are overlaid as a magenta backbone trace on the design (no separate refold view). That code is **vendored, not written here**: `localfold.json` pins a `sokrypton/localfold` commit, and `npm run sync:localfold [<commit>]` copies the import closure of its entries into `vendor/localfold-<commit>/` (the commit in the path is the cache-busting) and rewrites `web/localfold.js`. Never edit `vendor/`; fix LocalFold and re-sync. AlphaFold 3's parameters are Google DeepMind's (non-commercial, prohibited-use policy), so the page asks once per browser before using them and offers OpenBind-0 (Apache 2.0) instead.
    - Cache-busting: `index.html` carries an import map pinning every module under `web/`, `shared/`, `webgpu/`, `cpu/` to `?v=<content hash>` (plus the `app.js` / `styles.css` tags). Run `npm run stamp` after editing any of them (`build:studio` runs it too), or browsers can mix new and cached modules for up to 10 minutes after a deploy.
    - Chain colours come from Studio's shared palette, keyed by chain id; the design panel reads it through `window.atomworksStudio.chainColor`. The palette (fork) is cool colours only, thirteen of them: amber is the hotspots' (`--rfd4p-hotspot`) and magenta the refold's, so neither is ever a chain's, and H, L and T fall on three different colours. Selection is one look everywhere: an outline in the text colour, no tint (fork 912934c: Mol*'s select and hover marking in the foreground colour, white on black and near-black on white, hover fainter; the sequence bar's selected residues outlined, keeping their colours, a run of them one box, fork c8d0b8c), and a sub-card holding selected residues outlined the same (`_markSelected`), so chain colours, hotspots (amber), free (accent) and the fades all still show under a selection.
